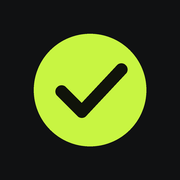
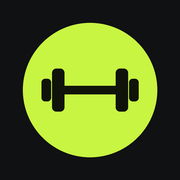
Add files via upload

Changed region(s): [[0.1111, 0.1111, 0.8889, 0.8889]]

diff --git a/index.html b/index.html
@@ -33,8 +33,6 @@ header{position:sticky;top:env(safe-area-inset-top,0px);z-index:11;background:va
 .days{display:flex;gap:8px;margin-top:10px}
 .days button{background:var(--card);padding:10px 0;font-size:15px;position:relative}
 .days button.on{background:var(--acc);color:var(--on)}
-.days button.now::after{content:"";position:absolute;top:7px;right:12px;width:5px;height:5px;border-radius:50%;background:var(--acc)}
-.days button.on.now::after{background:var(--on)}
 main{padding:10px 16px 48px;max-width:560px;margin:0 auto}
 .ttl{font:800 25px/1.12 var(--hd);text-transform:uppercase;letter-spacing:-.02em;margin:14px 0 8px}
 .ttl span{display:block;color:var(--mute)}
@@ -108,7 +106,11 @@ input:focus{border-color:var(--acc)}
 .del{color:var(--red);text-align:center;width:100%;padding:16px 0 0;font-weight:700}
 .days{gap:6px}.days button{padding:8px 0 9px;display:flex;flex-direction:column;align-items:center;gap:1px}
 .days small{font-size:12px;font-weight:700}.days b{font-size:16px;font-weight:700}
-.days button.rest small{opacity:.5}.days button.now::after{top:6px;right:7px}
+.days button.rest:not(.now) small{opacity:.5}.days b{display:flex;align-items:center;height:22px}
+:root{--accT:var(--acc)}
+@media (prefers-color-scheme:light){:root:not([data-theme="dark"]){--accT:#587F00}}
+:root[data-theme="light"]{--accT:#587F00}
+.days button.now:not(.on),.days button.done:not(.on) b{color:var(--accT)}
 .chip{display:inline-flex;align-items:center;gap:6px;background:var(--card);border-radius:999px;padding:10px 15px;font-size:14px;font-weight:700;color:var(--mute)}
 .chip i{width:8px;height:8px;border-radius:50%;background:var(--card2)}.chip i.on{background:var(--acc)}.chip em{font-style:normal;margin-left:4px}
 .nxt{margin-top:18px;background:var(--acc);color:var(--on);border-radius:26px;padding:18px}
@@ -138,6 +140,7 @@ function monday(n){return n-((n+3)%7)}
 function seedDay(){return{on:true,ra:['1','1','1'],rounds:['2','3','4'],
  am:[ex('Круги плечами','10','10','10'),ex('Кошка-корова','8','10','12'),ex('Ягодичный мостик','8','10','12'),ex('Выпад с наклоном','5','6','8'),ex('Растяжка бёдер','30 с','30 с','40 с')],
  pm:[ex('Приседания','10','12','15'),ex('Отжимания','6','8','12'),ex('Ягодичный мостик','12','15','20'),ex('Выпады','8','10','12'),ex('Планка','20 с','30 с','45 с')]}}
+var DB='<svg viewBox="0 0 24 24" width="22" height="22" fill="currentColor" aria-label="Выполнено"><rect x="1" y="9" width="3" height="6" rx="1"/><rect x="4.5" y="6" width="3.5" height="12" rx="1.2"/><rect x="8" y="11" width="8" height="2"/><rect x="16" y="6" width="3.5" height="12" rx="1.2"/><rect x="20" y="9" width="3" height="6" rx="1"/></svg>';
 function emptyDay(on){return{on:on,ra:['1','1','1'],rounds:['2','3','4'],am:[],pm:[]}}
 function fix(s){s.plan.forEach(function(d){if(!d.ra)d.ra=['1','1','1'];if(d.on===undefined)d.on=true;['am','pm'].forEach(function(b){d[b].forEach(function(e){if(!e.t)e.t=e.s.some(function(v){return/с|мин|:/.test(v)})?'t':'r'})})});return s}
 function load(){var i,pl=[];try{var r=localStorage.getItem(KEY);if(r){var s=JSON.parse(r);if(s&&s.plan&&s.plan.length===7)return fix(s)}
@@ -178,7 +181,7 @@ function stp(b){return'<div class="stp" style="margin:0 0 12px">Подходов
 function render(){
  var cm=curMod(),td=todayDay(),pl=S.plan[day],p=PR(day),h='',mon=monday(today());
  document.getElementById('nav').innerHTML=[['w','Тренировка'],['p','План']].map(function(t){return'<button data-t="'+t[0]+'" class="'+(tab===t[0]?'on':'')+'">'+t[1]+'</button>'}).join('');
- document.getElementById('days').innerHTML=DAYS.map(function(n,i){return'<button data-d="'+i+'" class="'+(i===day?'on ':'')+(i===td?'now ':'')+(S.plan[i].on?'':'rest')+'"><small>'+n+'</small><b>'+(dayDone(i)?'✓':new Date((mon+i)*864e5).getUTCDate())+'</b></button>'}).join('');
+ document.getElementById('days').innerHTML=DAYS.map(function(n,i){return'<button data-d="'+i+'" class="'+(i===day?'on ':'')+(i===td?'now ':'')+(S.plan[i].on?'':'rest ')+(dayDone(i)?'done':'')+'"><small>'+n+'</small><b>'+(dayDone(i)?DB:new Date((mon+i)*864e5).getUTCDate())+'</b></button>'}).join('');
  if(tab==='w'){
   var ons=[0,1,2,3,4,5,6].filter(function(i){return S.plan[i].on});
   h+='<div class="ttl"><span>'+DAYF[day]+'</span>'+(pl.on?WN[cm]+' неделя':'День отдыха')+'</div>';
@@ -233,7 +236,11 @@ document.addEventListener('click',function(ev){
  else if(a==='onoff'){pl.on=!pl.on;save();render()}
  else if(a==='clear'){delete S.prog[key(day)];save();render()}
 });
-render();
+var lastD=today();
+function tick(){var n=today();if(n!==lastD){lastD=n;day=todayDay();ew=curMod();fx='enter';render()}}
+document.addEventListener('visibilitychange',function(){if(!document.hidden)tick()});
+window.addEventListener('focus',tick);window.addEventListener('pageshow',tick);setInterval(tick,60000);
+save();render();
 </script>
 </body>
 </html>
